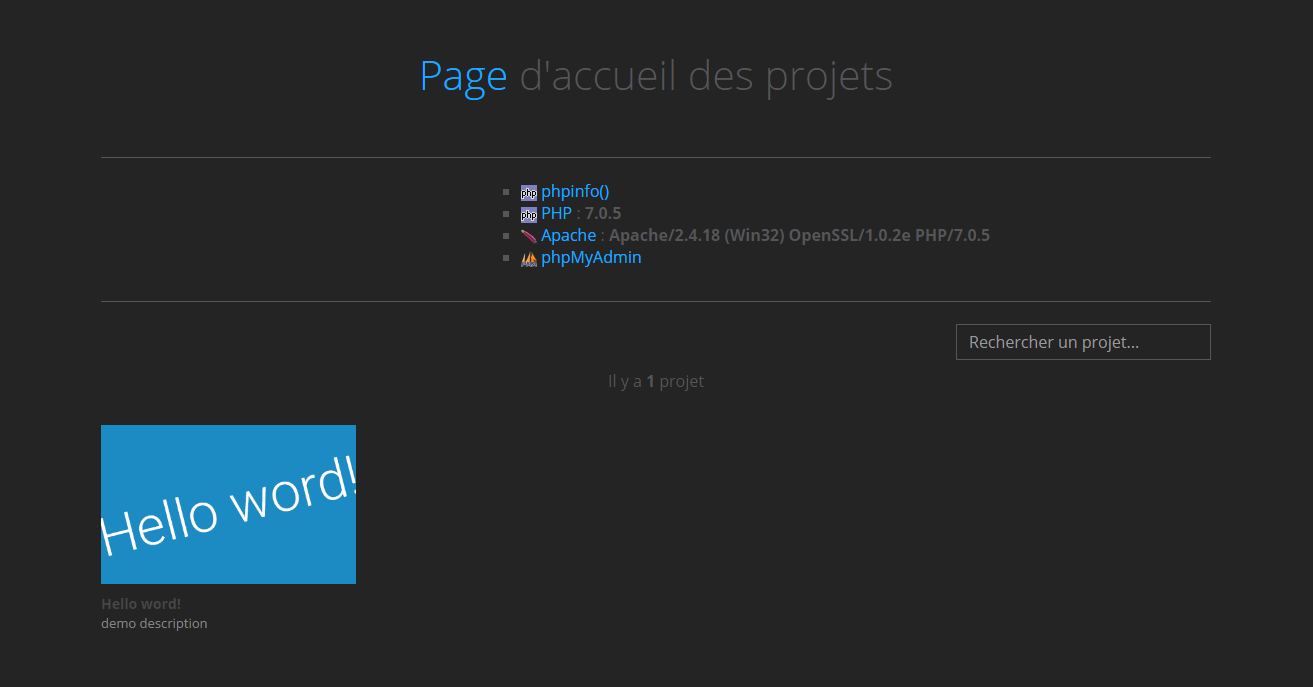
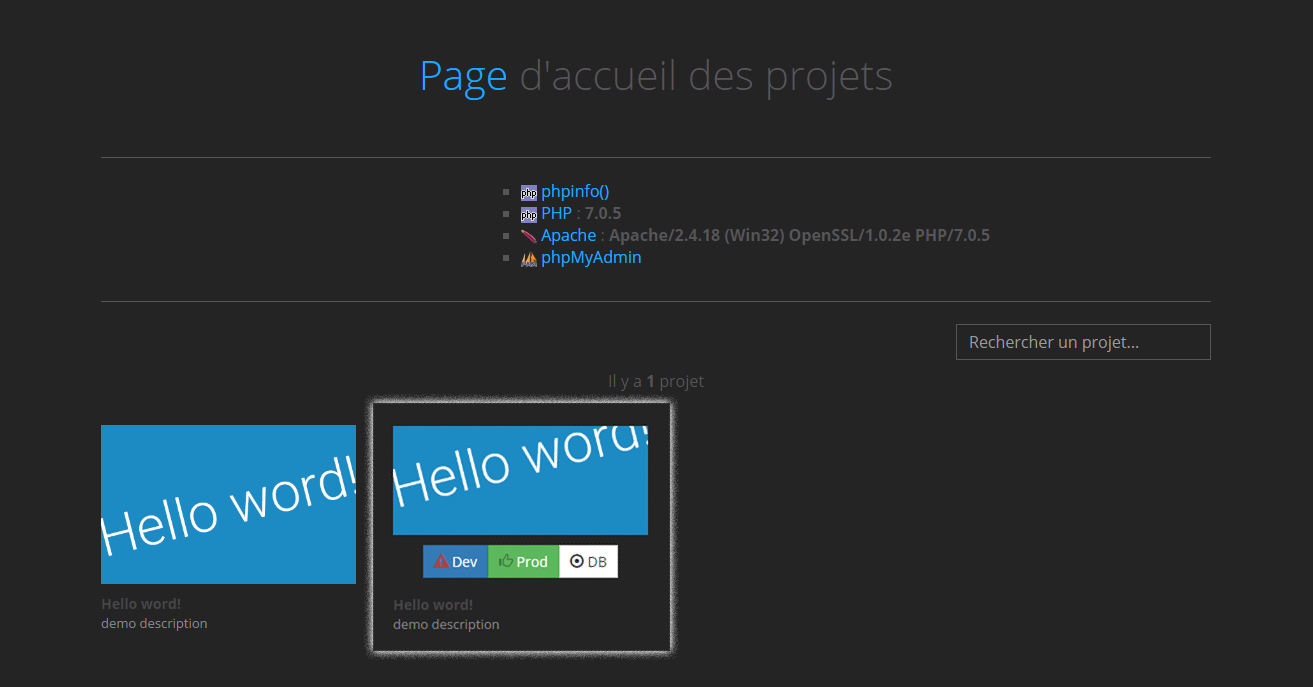
Add support database link

Changed region(s): [[0.281, 0.5502, 0.5308, 0.9782]]

diff --git a/index.php b/index.php
@@ -37,13 +37,14 @@ if ($dossier = opendir($name_main_folder)) {
 //            $html .= (!($i % 4)) ? '<div class="row">' : '';
 
             $picture = (is_file($name_main_folder.$fichier."/.sources/picture.png")) ? $name_main_folder.$fichier."/.sources/picture.png" : "assets/img/default.png";
-            $urldev = $urlprod = $description = "";
+            $urldev = $urlprod = $description = $urldb = "";
 
             if (is_file($name_main_folder.$fichier."/.sources/config.ini")) {
                 $ini_array = parse_ini_file($name_main_folder.$fichier."/.sources/config.ini", true);
                 $title = (!empty($ini_array['infos_base']['title'])) ? $ini_array['infos_base']['title'] : $fichier;
                 $urldev = (!empty($ini_array['infos_base']['URLDEV'])) ? $ini_array['infos_base']['URLDEV'] : $name_main_folder.$fichier;
                 $urlprod = (!empty($ini_array['infos_base']['URLPROD'])) ? $ini_array['infos_base']['URLPROD'] : "";
+                $urldb = (!empty($ini_array['infos_base']['URLDB'])) ? $ini_array['infos_base']['URLDB'] : "";
                 $description = (!empty($ini_array['infos_base']['description'])) ? $ini_array['infos_base']['description'] : "";
             } else {
                 $urldev = $name_main_folder.$fichier;
@@ -59,9 +60,12 @@ if ($dossier = opendir($name_main_folder)) {
             $html .= '<div class="bb-project-manager-content-btn">';
             $html .= '<div class="bb-project-manager-content-alignCenter">';
             $html .= '<div class="bb-project-manager-content-body">';
-            $html .= '<a href="'.$urldev.'" class="btn btn-sm btn-primary" rel="nofollow"><span class="glyphicon glyphicon-warning-sign text-danger" aria-hidden="true"></span> Development</a>';
+            $html .= '<a href="'.$urldev.'" class="btn btn-sm btn-primary" rel="nofollow" title="Developement"><span class="glyphicon glyphicon-alert text-danger" aria-hidden="true"></span> Dev</a>';
             if (!empty($urlprod)) {
-                $html .= '<a href="'.$urlprod.'" class="btn btn-sm btn-success" rel="nofollow"><span class="glyphicon glyphicon-thumbs-up text-success" aria-hidden="true"></span> Production</a>';
+                $html .= '<a href="'.$urlprod.'" class="btn btn-sm btn-success" rel="nofollow" title="Production"><span class="glyphicon glyphicon-thumbs-up text-success" aria-hidden="true"></span> Prod</a>';
+            }
+            if (!empty($urldb)) {
+                $html .= '<a href="'.$urldb.'" class="btn btn-sm btn-default" rel="nofollow" target="_blank" title="Database"><span class="glyphicon glyphicon-record" aria-hidden="true"></span> DB</a>';
             }
             $html .= '</div>';
             $html .= '</div>';

diff --git a/README.md b/README.md
@@ -17,7 +17,7 @@ Ce projet utilise :
 
 3. Un fichier de configuration `/www/YOUR_PROJECT/.sources/config.ini` peut être construit pour chaque projet (FACULTATIF).
 
-4. Pour ajouter une image à chaque projet, il faut créer une image (en 400px x 250px) et la placer dans le dossier `/www/YOUR_PROJECT/.sources/` et la nommer `picture.png` au format **.png** (FACULTATIF).
+4. Pour ajouter une image personnalisée à chaque projet, il faut créer une image (en 400px x 250px) et la placer dans le dossier `/www/YOUR_PROJECT/.sources/` et la nommer `picture.png` au format **.png** (FACULTATIF).
 
 5. Pour afficher les versions de vos serveurs web Nginx/Apache, il faut décommenter les lignes **127** & **132** du fichier index.php (FACULTATIF).
 
